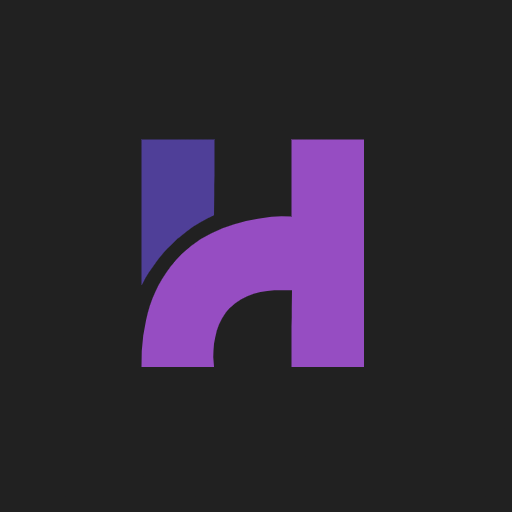
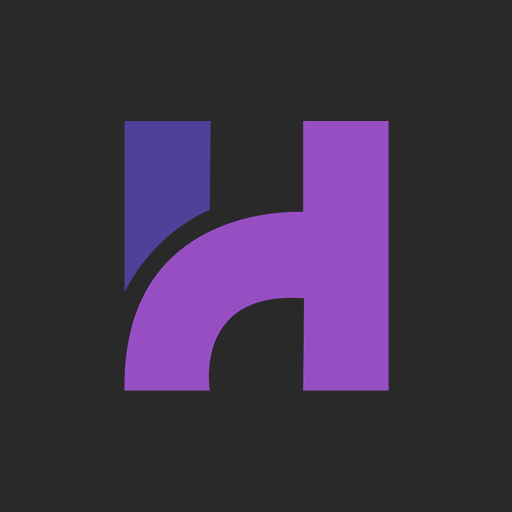
Hypr Image - Minor Update
- index.html - Minor Fix
- icons update
- App.tsx - update the svg
- models.ts - remove N for dalle-2

diff --git a/index.html b/index.html
@@ -1,16 +1,32 @@
 <!DOCTYPE html>
 <html lang="en">
   <head>
-    <meta charset="UTF-8" />
-    <link rel="icon" type="image/svg+xml" href="/vite.svg" />
-    <meta name="viewport" content="width=device-width, initial-scale=1.0" />
     <title>Hypr Image</title>
+    <meta name="title" content="Hypr Image" />
+    <meta name="description" content="Hypr Image is an Image Generation Playground for cutting-edge AI Image models." />
+    <meta name="keywords" content="HyprLab, CHATGPT, OPENAI, FREE, OPEN-SOURCE, Artificial Intelligence, Machine Learning, Natural Language Processing, Deep Learning, Neural Networks, Chatbot, Conversational AI, Virtual Assistant, Personalized Learning, Real-time Feedback, Support, Educational Resources, Homework Help, Study Aid, Grading Automation, Attendance Tracking, Lesson Planning, Teacher Support, Student Support, OpenAI GPT-3, Ambot Chat, Messenger Bot, Facebook Bot, ChatGPT, Open-Source, Free, Online Learning, E-Learning, Distance Learning, Remote Learning, Blended Learning, Self-Paced Learning, Interactive Learning, Personalized Feedback, Adaptive Learning, Intelligent Tutoring, Learning Analytics, Educational Data Mining, Educational Technology, Smart Classroom, Digital Learning, Gamification, Augmented Reality, Virtual Reality, Educational Apps, Educational Games, Educational Videos, Educational Podcasts, MOOCs, SPOCs, Microlearning, Bite-Sized Learning, Continuous Learning, Lifelong Learning, Skill-Based Learning, Competency-Based Learning, Project-Based Learning, Inquiry-Based Learning, Problem-Based Learning, Collaborative Learning, Peer Learning, Social Learning, Experiential Learning, Reflective Learning, Critical Thinking, Creativity, Innovation, Entrepreneurship, STEM Education, Coding, Robotics, Artificial Intelligence Ethics, Bias in AI, Privacy in AI, Security in AI, Transparency in AI, Explainable AI, Human-Centered AI, Responsible AI, Sustainable AI, Future of Education, Education Technology Trends, Education Innovation, Education Transformation, Education Disruption, Education Equality, Education Access, Education Equity, Education Empowerment, Education Revolution, Education for All, Digital Divide, Bridging the Gap, Inclusive Education, Accessible Education, Personalized Accessibility, Assistive Technology, Universal Design for Learning, Educational Equity, Educational Justice, Intelligent Automation, Cognitive Computing, Sentiment Analysis, Speech Recognition, Text-to-Speech, Translation, Multilingual Support, Learning Management System, Student Engagement, Teacher Collaboration, Parental Involvement, Digital Citizenship, Cybersecurity, Data Privacy, Cloud Computing, Big Data, Predictive Analytics, Personalized Recommendations, Targeted Advertising, Customer Service, Sales Support, Brand Awareness, Social Media Marketing, Lead Generation, Customer Engagement, Customer Retention, Customer Satisfaction, Chatbot Development, Natural Language Generation, Chatbot Analytics, Chatbot Training, Chatbot Integration, Chatbot Testing, Chatbot Deployment, Chatbot Optimization, Chatbot Security, Chatbot Maintenance, Chatbot Use Cases, Chatbot Best Practices, Chatbot Future, AI Ethics in Education, AI Governance, AI Regulation, AI Policy, AI Strategy, AI Adoption, AI Implementation, AI Impact, AI Innovation, AI Transformation" />
+    <meta name="language" content="English" />
+    <meta name="author" content="HyprLab" />
+    <meta http-equiv="Content-Type" content="text/html; charset=utf-8" />
+    <meta property="og:type" content="website" />
+    <meta property="og:url" content="https://image.hyprlab.io/" />
+    <meta property="og:title" content="Hypr Image" />
+    <meta property="og:description" content="Hypr Image is an Image Generation Playground for cutting-edge AI Image models." />
+    <meta property="og:image" content="/cover.png" />
+    <meta property="twitter:card" content="summary_large_image" />
+    <meta property="twitter:url" content="https://image.hyprlab.io/" />
+    <meta property="twitter:title" content="HyprLab" />
+    <meta property="twitter:description" content="Hypr Image is an Image Generation Playground for cutting-edge AI Image models." />
+    <meta property="twitter:image" content="/cover.png" />
+    <meta charset="UTF-8" />
+    <meta name="viewport" content="width=device-width, initial-scale=1.0" />
     <!-- Add Dark Reader from jsDelivr CDN -->
     <script src="https://cdn.jsdelivr.net/npm/darkreader@4.9.58/darkreader.min.js"></script>
     <!-- favicon -->
-    <link rel="icon" type="image/png" href="/favicon-96x96.png" sizes="96x96" />
-    <link rel="icon" type="image/svg+xml" href="/favicon.svg" />
     <link rel="shortcut icon" href="/favicon.ico" />
+    <link rel="icon" type="image/png" sizes="96x96" href="/favicon-96x96.png"/>
+    <link rel="icon" type="image/png" sizes="32x32" href="/favicon-32x32.png">
+    <link rel="icon" type="image/png" sizes="16x16" href="/favicon-16x16.png">
     <link rel="apple-touch-icon" sizes="180x180" href="/apple-touch-icon.png" />
     <meta name="apple-mobile-web-app-title" content="Hypr Image" />
     <link rel="manifest" href="/site.webmanifest" />

diff --git a/src/App.tsx b/src/App.tsx
@@ -5,6 +5,7 @@ import ImageHistory from './components/ImageHistory';
 import ImageModal from './components/ImageModal';
 import { GeneratedImage } from './types';
 import { DatabaseService } from './services/databaseService';
+import favicon from "/public/favicon.svg";
 
 const db = new DatabaseService();
 
@@ -112,25 +113,7 @@ function App() {
     <div className="min-h-screen bg-white">
       <header className="p-2 border-b flex justify-between items-center bg-white sticky top-0 z-50">
         <h1 className="text-3xl font-bold text-black flex items-center leading-none">
-          <svg
-            className="h-6 w-6 mx-2"
-            xmlns="http://www.w3.org/2000/svg"
-            width="512"
-            height="512"
-            fill="none"
-            viewBox="0 0 512 512"
-          >
-            <g clip-path="url(#a)">
-              <path
-                fill="#964DC2"
-                d="M345.014 0H512v512H345.014c0-57.65.672-115.275 1.38-172.918-51.267-.325-103.67 2.716-142.987 39.878-35.121 34.579-36.42 84.54-36.42 133.04H0c0-97.646 20.771-184.077 92.757-254.6 66.142-63.237 162.479-84.482 252.257-84.482V0Z"
-              />
-              <path
-                fill="#4F3F98"
-                d="M0 0h165v170.256C95.588 204.438 32.734 255.969 0 327V0Z"
-              />
-            </g>
-          </svg>
+          <img src={favicon} alt="Favicon" className="h-6 w-6 mx-2" />
           <span className="flex items-center mb-1"> - Image Generation</span>
         </h1>
         <div>

diff --git a/src/config/models.ts b/src/config/models.ts
@@ -95,7 +95,6 @@ export const modelValidations = {
     ...baseValidation,
     model: z.literal('dall-e-2'),
     size: z.enum(['256x256', '512x512', '1024x1024']),
-    n: z.number().min(1).max(10).optional(),
   }),
   'ideogram-v2': z.object({
     ...baseValidation,
@@ -371,15 +370,6 @@ export const modelFamilies: ModelFamily[] = [
             options: ['vivid', 'natural'],
             showFor: ['dall-e-3'],
             default: 'vivid',
-          },
-          {
-            name: 'n',
-            type: 'number',
-            label: 'Number of Images',
-            min: 1,
-            max: 10,
-            showFor: ['dall-e-2'],
-            default: 1,
           },
         ],
       },
